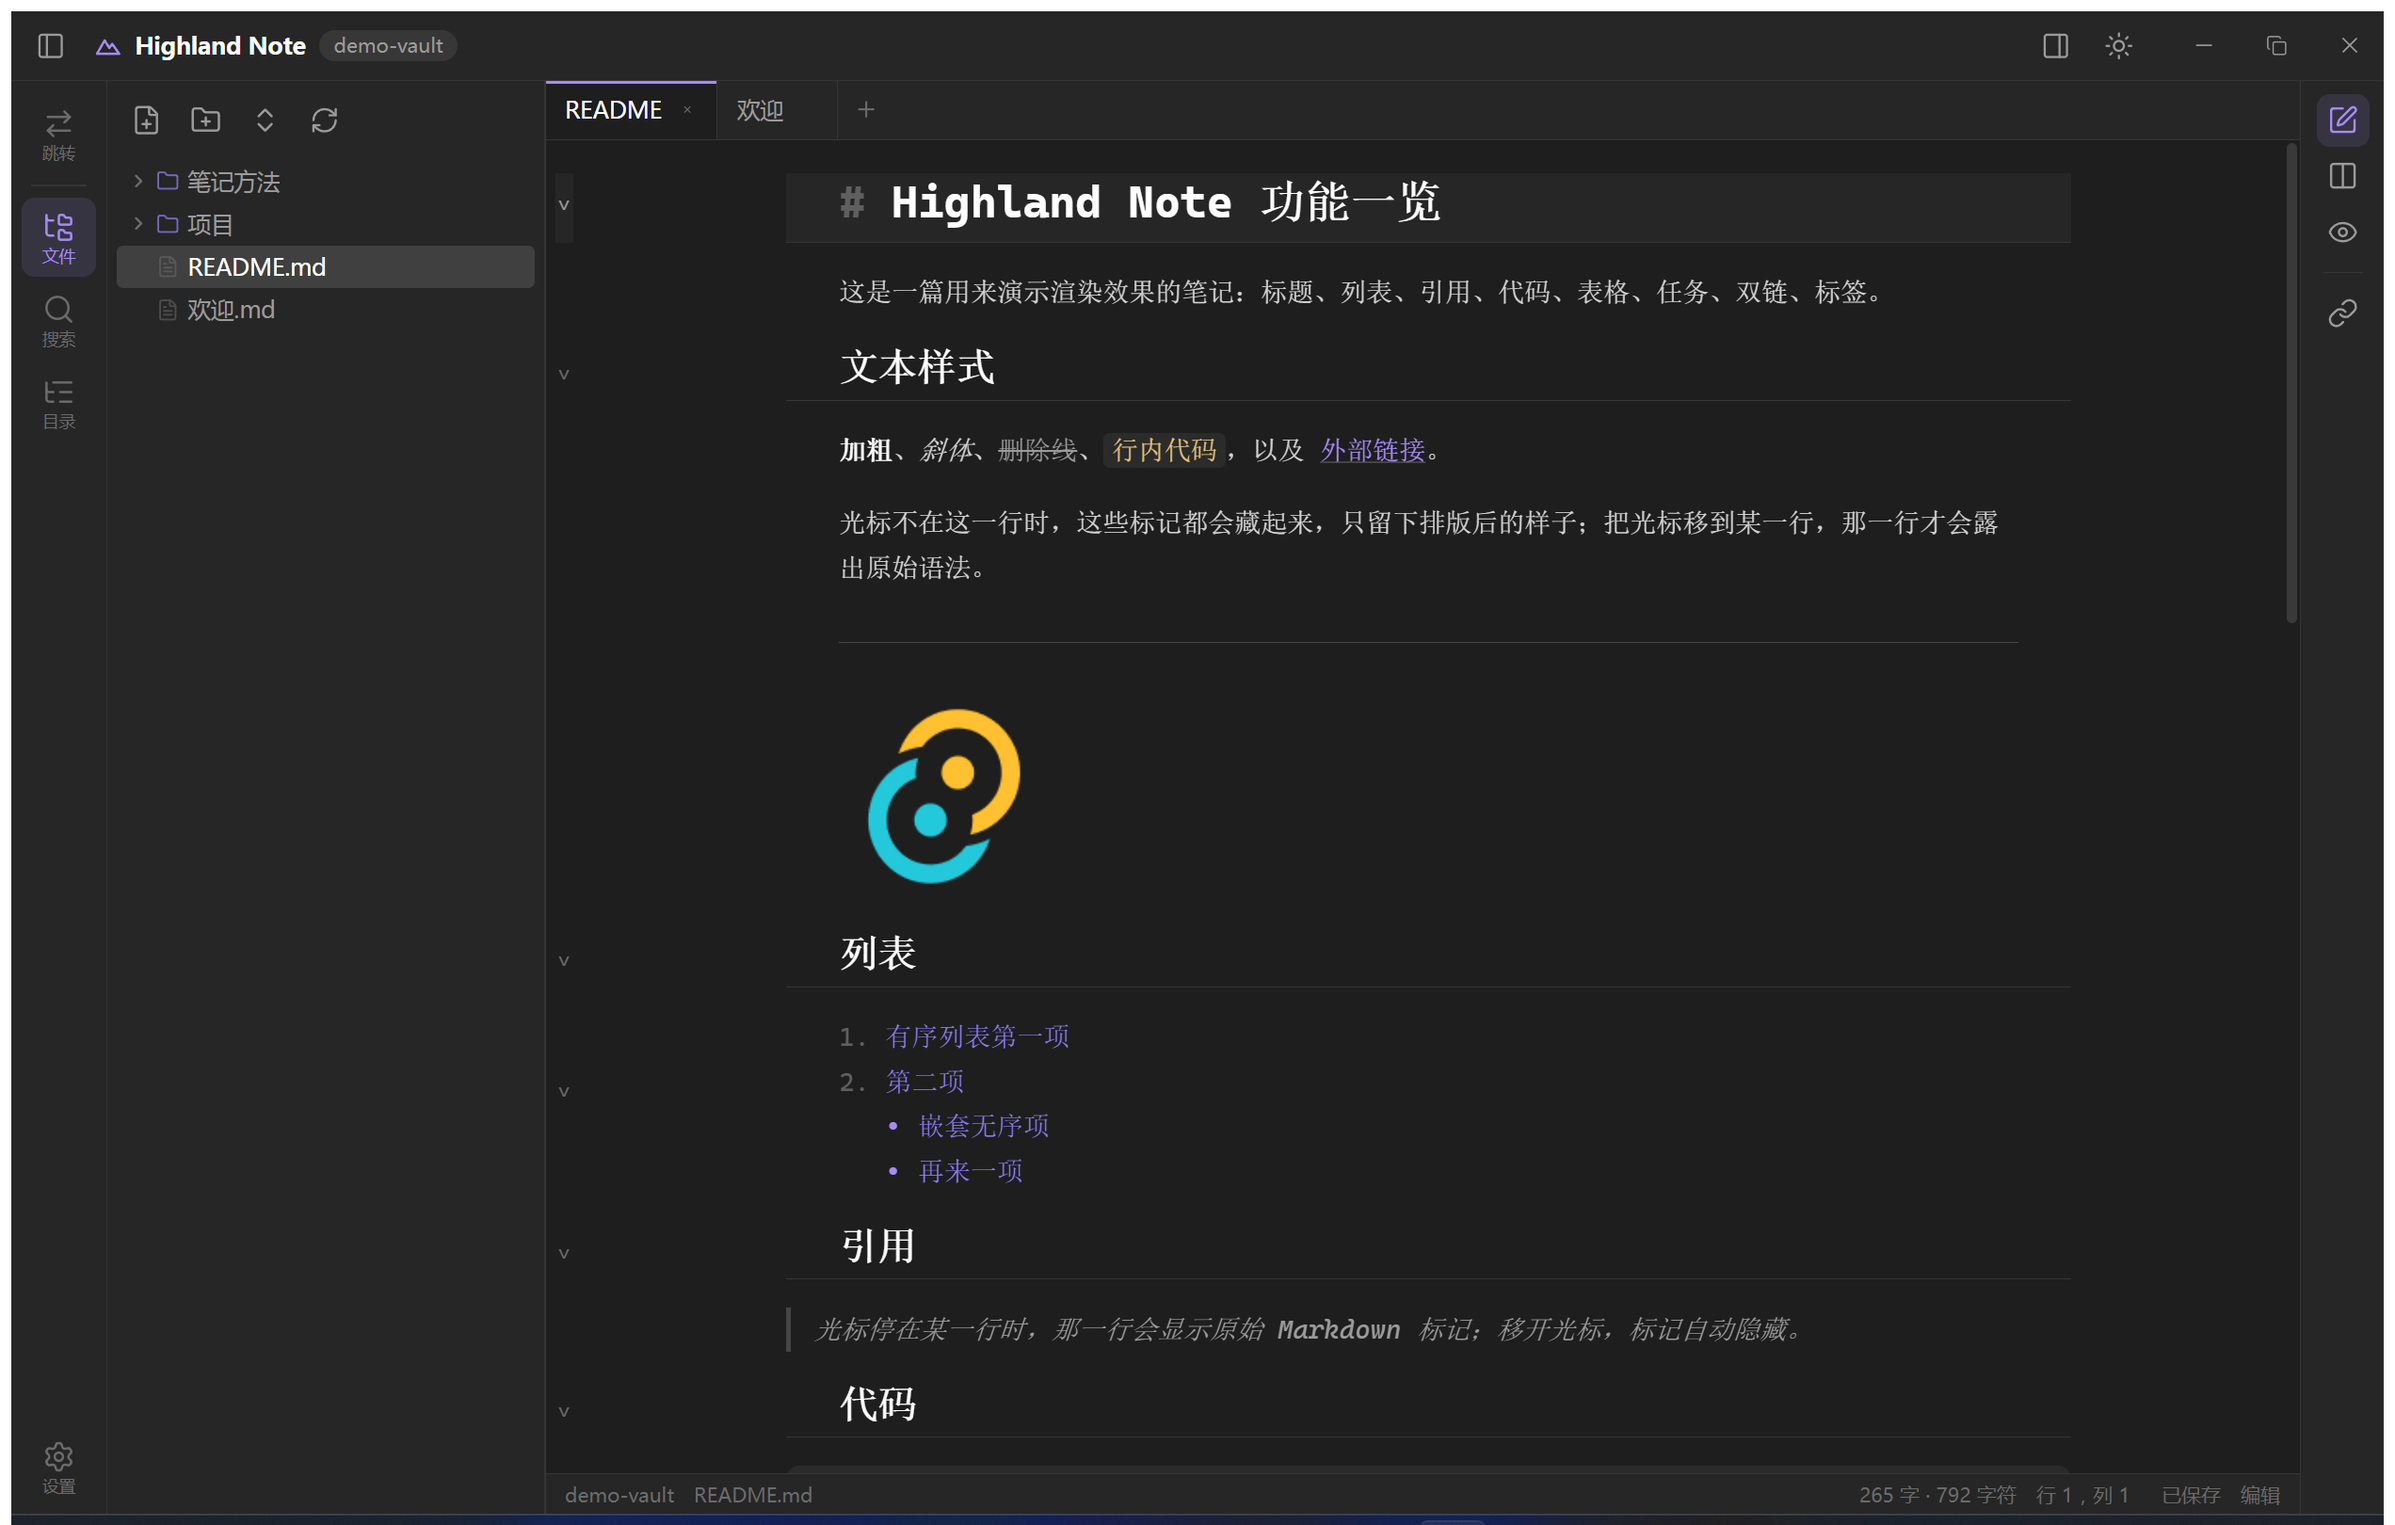
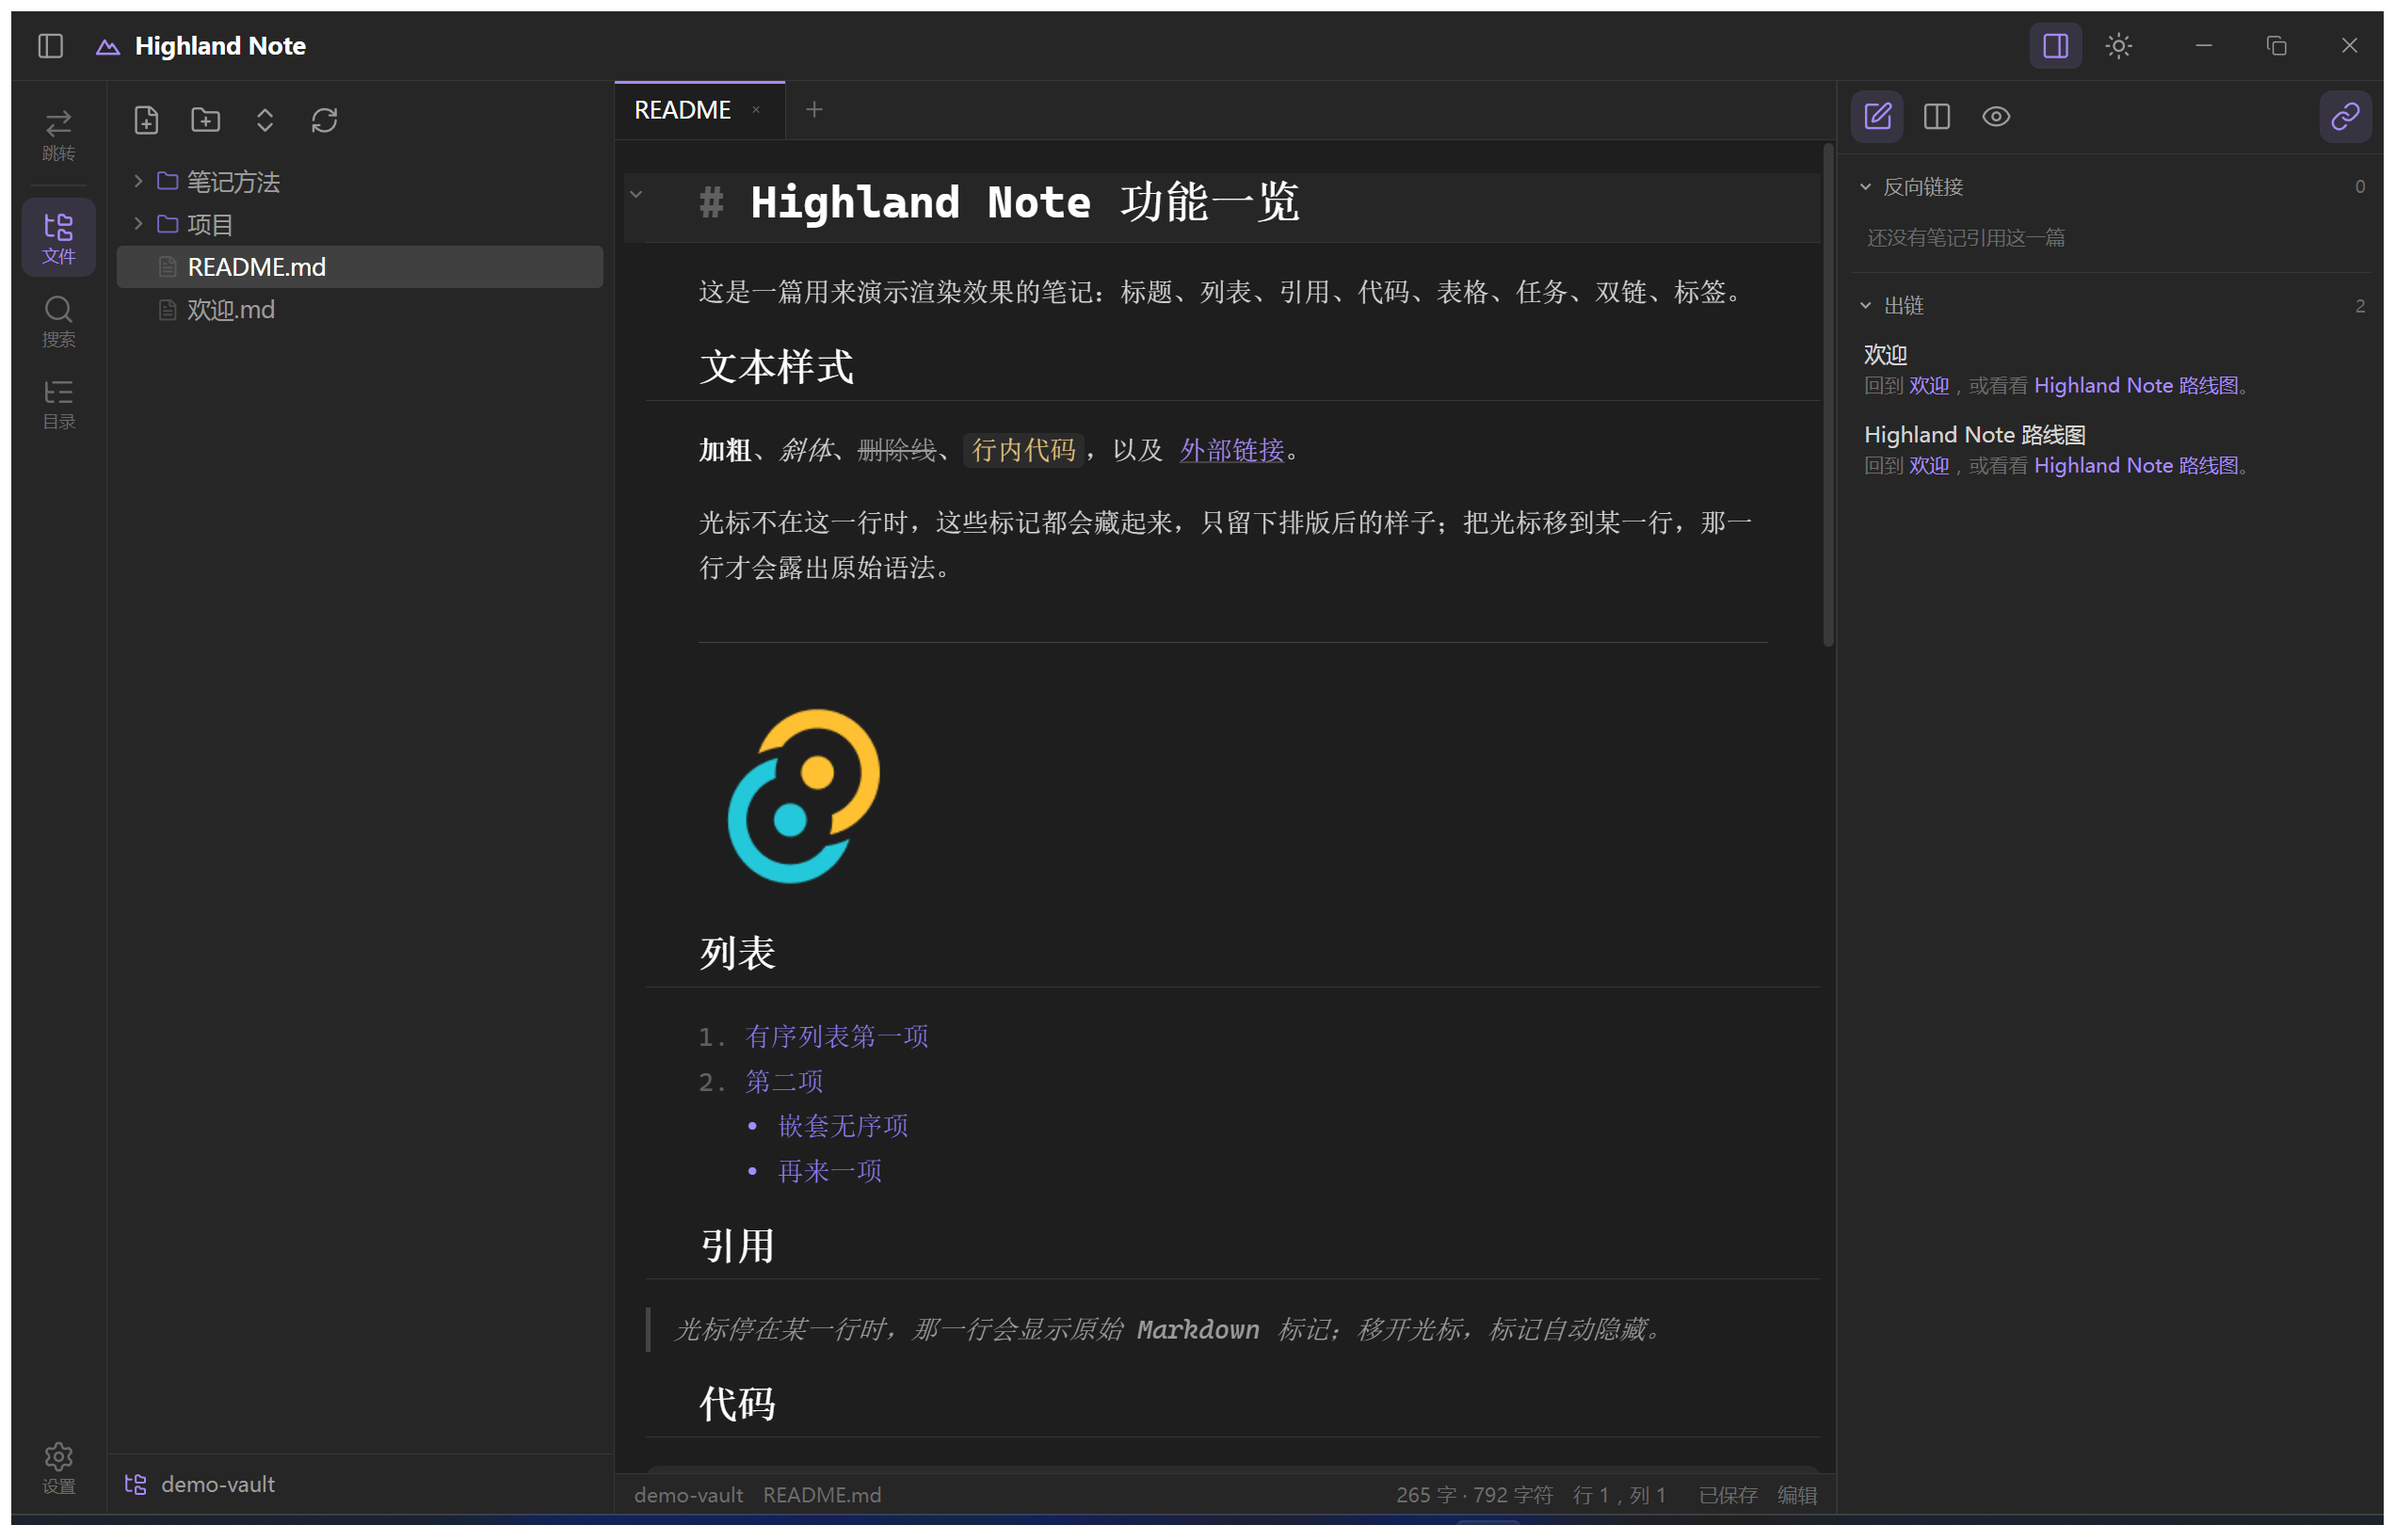
feat: 更新 README，添加仓库页脚功能，删除旧路线图，优化编辑器折叠标记样式

diff --git a/src/components/SideBar.vue b/src/components/SideBar.vue
@@ -1,16 +1,27 @@
 <script setup lang="ts">
 import { computed, nextTick, ref, watch } from "vue";
-import { ChevronsDownUp, ChevronsUpDown, FilePlus, FolderPlus, RefreshCw } from "lucide-vue-next";
+import {
+  ChevronsDownUp,
+  ChevronsUpDown,
+  FilePlus,
+  FolderPlus,
+  FolderTree,
+  RefreshCw,
+} from "lucide-vue-next";
+import { revealItemInDir } from "@tauri-apps/plugin-opener";
 import TreeNode from "./TreeNode.vue";
 import OutlinePanel from "./OutlinePanel.vue";
 import type { FileNode } from "../lib/api";
 import {
+  closeVault,
   createFolder,
   createNote,
   deleteEntry,
   moveEntry,
   openMenu,
   openNote,
+  openVault,
+  pickVault,
   refreshNotes,
   refreshTree,
   renameEntry,
@@ -105,6 +116,39 @@ function toggleFolders() {
   const next: Record<string, boolean> = {};
   for (const path of folders) next[path] = true;
   store.expanded = next;
+}
+
+function baseName(path: string) {
+  return path.split(/[\\/]/).filter(Boolean).pop() ?? path;
+}
+
+/** 仓库页脚菜单：切换仓库、最近打开、在资源管理器里显示、关闭。 */
+function vaultMenu(event: MouseEvent) {
+  const current = store.vault?.path;
+  const items: MenuItem[] = [
+    { label: "打开其他仓库…", shortcut: "Ctrl+O", action: () => void pickVault() },
+  ];
+
+  const recents = store.settings.recentVaults.filter((path) => path !== current);
+  if (recents.length) {
+    items.push({ separator: true });
+    for (const path of recents.slice(0, 6)) {
+      items.push({ label: `切换到 ${baseName(path)}`, action: () => void openVault(path) });
+    }
+  }
+
+  if (current) {
+    items.push({ separator: true });
+    items.push({
+      label: "在资源管理器中显示",
+      action: () => void revealItemInDir(current).catch(() => undefined),
+    });
+  }
+
+  items.push({ separator: true });
+  items.push({ label: "关闭仓库", danger: true, action: () => void closeVault() });
+
+  openMenu(event, items);
 }
 
 function onRootDragOver(event: DragEvent) {
@@ -218,6 +262,13 @@ function highlight(text: string, query: string): string {
         </div>
       </div>
     </template>
+
+    <!-- 仓库页脚：切换 / 管理当前仓库 -->
+    <button class="vault-footer" :title="store.vault?.path ?? ''" @click="vaultMenu">
+      <FolderTree :size="15" :stroke-width="1.8" class="vault-icon" />
+      <span class="vault-footer-name">{{ store.vault?.name ?? "未打开仓库" }}</span>
+      <ChevronsUpDown :size="13" :stroke-width="2" class="vault-caret" />
+    </button>
   </aside>
 </template>
 

diff --git a/src/lib/editor.ts b/src/lib/editor.ts
@@ -202,6 +202,20 @@ class TableWidget extends WidgetType {
   }
 }
 
+/**
+ * 折叠标记：默认藏着，鼠标移到行号槽或光标停在那一行时才露出来。
+ * CodeMirror 自带的 `⌄`/`›` 文字标记在宽槽里显得很突兀，这里换成小箭头。
+ */
+function foldMarker(open: boolean): HTMLElement {
+  const marker = document.createElement("span");
+  marker.className = "cm-fold-marker";
+  marker.setAttribute("aria-hidden", "true");
+  marker.innerHTML = open
+    ? '<svg width="12" height="12" viewBox="0 0 24 24" fill="none" stroke="currentColor" stroke-width="2.6" stroke-linecap="round" stroke-linejoin="round"><path d="m6 9 6 6 6-6"/></svg>'
+    : '<svg width="12" height="12" viewBox="0 0 24 24" fill="none" stroke="currentColor" stroke-width="2.6" stroke-linecap="round" stroke-linejoin="round"><path d="m9 6 6 6-6 6"/></svg>';
+  return marker;
+}
+
 export interface LivePreviewOptions {
   /** 把笔记里的图片地址换成 webview 能加载的地址 */
   imageSource?: (url: string) => string | null;
@@ -514,6 +528,19 @@ function baseTheme(dark: boolean): Extension {
       ".cm-code-line": { backgroundColor: "var(--code-bg)" },
       ".cm-code-line-first": { borderRadius: "8px 8px 0 0", paddingTop: "5px" },
       ".cm-code-line-last": { borderRadius: "0 0 8px 8px", paddingBottom: "5px" },
+      // 折叠槽：窄一点，标记平时不显示，只在悬停折叠槽或光标所在行出现
+      ".cm-foldGutter": { width: "13px" },
+      ".cm-foldGutter .cm-gutterElement": { opacity: "0", transition: "opacity 0.12s" },
+      ".cm-foldGutter:hover .cm-gutterElement": { opacity: "1" },
+      ".cm-foldGutter .cm-gutterElement.cm-activeLineGutter": { opacity: "1" },
+      ".cm-fold-marker": {
+        display: "inline-flex",
+        alignItems: "center",
+        justifyContent: "center",
+        color: "var(--text-faint)",
+        cursor: "pointer",
+      },
+      ".cm-fold-marker:hover": { color: "var(--accent)" },
       ".cm-quote-line": {
         borderLeft: "3px solid var(--border-strong)",
         paddingLeft: "14px",
@@ -639,7 +666,7 @@ function buildExtensions(options: EditorOptions, compartments: EditorCompartment
     highlightActiveLineGutter(),
     highlightSpecialChars(),
     history(),
-    foldGutter(),
+    foldGutter({ markerDOM: foldMarker }),
     drawSelection(),
     dropCursor(),
     EditorState.allowMultipleSelections.of(true),

diff --git a/src/styles/global.css b/src/styles/global.css
@@ -859,6 +859,50 @@ body.resizing .pane-splitter::after {
   color: var(--danger);
 }
 
+/* 仓库页脚：固定在列表面板底部，点开就是切换 / 管理菜单 */
+.vault-footer {
+  display: flex;
+  align-items: center;
+  gap: 8px;
+  flex: none;
+  width: 100%;
+  height: 38px;
+  padding: 0 10px;
+  border-top: 1px solid var(--border);
+  color: var(--text-muted);
+  font-size: 12.5px;
+  text-align: left;
+  transition: background 0.12s, color 0.12s;
+}
+
+.vault-footer:hover {
+  background: var(--bg-hover);
+  color: var(--text-strong);
+}
+
+.vault-footer .vault-icon {
+  flex: none;
+  color: var(--accent);
+}
+
+.vault-footer-name {
+  flex: 1;
+  overflow: hidden;
+  text-overflow: ellipsis;
+  white-space: nowrap;
+}
+
+.vault-footer .vault-caret {
+  flex: none;
+  opacity: 0;
+  color: var(--text-faint);
+  transition: opacity 0.12s;
+}
+
+.vault-footer:hover .vault-caret {
+  opacity: 1;
+}
+
 /* ---------------------------------------------------------- 右侧图标栏 + 面板 */
 
 .right-side {

diff --git a/src/App.vue b/src/App.vue
@@ -321,9 +321,6 @@ onBeforeUnmount(() => {
           <path d="M2.5 19.5 9 8l4 6.5L15.5 11l6 8.5z" />
         </svg>
         <span class="app-title">Highland Note</span>
-        <span v-if="store.vault" class="vault-name" :title="store.vault.path">
-          {{ store.vault.name }}
-        </span>
       </div>
 
       <span class="spacer" />

diff --git a/README.md b/README.md
@@ -35,6 +35,7 @@
 - **段落之间的空行被压扁**，看起来是段间距而不是空一整行
 - **光标在哪一行，那一行就露出原始语法**，方便直接改；移开又恢复渲染
 - 底层仍然是 CodeMirror 6：行号、括号匹配、代码块折叠、多光标、撤销历史都在
+  （折叠箭头平时藏着，鼠标移到行号槽或光标所在行才出现，不打扰阅读）
 - 三种视图：仅编辑 / 分栏 / 仅预览（`Ctrl` + `E`）；编辑模式本身已经所见即所得，分栏主要用于对照
 
 > 实现上有一点要注意：**跨行的替换装饰（比如整块表格）CodeMirror 只允许由 `StateField` 提供**，
@@ -84,7 +85,7 @@
 │ 具 │  列表面板     ├──────────┬───────────┤  右侧面板   │ 标 │
 │ 栏 │ 文件/搜索/目录 │  编辑区   │   预览区   │ (链接/反链) │ 栏 │
 │    │              ├──────────┴───────────┤            │    │
-│ ⚙  │              │  状态栏               │            │    │
+│ ⚙  │ 仓库：demo-vault│  状态栏              │            │    │
 └────┴──────────────┴──────────────────────┴────────────┴────┘
 ```
 
@@ -92,7 +93,9 @@
   设置固定在底部。再点一次当前面板项即收起列表面板；以后加复习、知识树只要往这里加一项
 - **列表面板**：同一列里切换三种内容——文件树（`Ctrl` + `Shift` + `E`）、全文搜索
   （`Ctrl` + `Shift` + `F`）、标题大纲（`Alt` + `O`），宽度可拖动。
-  文件树顶部是一排等大的图标按钮：新建笔记 / 新建文件夹 / 全部展开折叠 / 刷新，用途看 tooltip
+  文件树顶部是一排等大的图标按钮：新建笔记 / 新建文件夹 / 全部展开折叠 / 刷新，用途看 tooltip。
+  **底部固定一条仓库页脚**，点开就是仓库的切换与管理：打开其他仓库（`Ctrl` + `O`）、
+  在最近打开之间切换、在资源管理器里显示、关闭仓库
 - **内容区**
   - 标签栏：当前标签用编辑区底色连成一片、左上角一条主题色标记，关闭按钮只在悬停或当前标签出现；
     右端的 **`+`** 新建笔记
